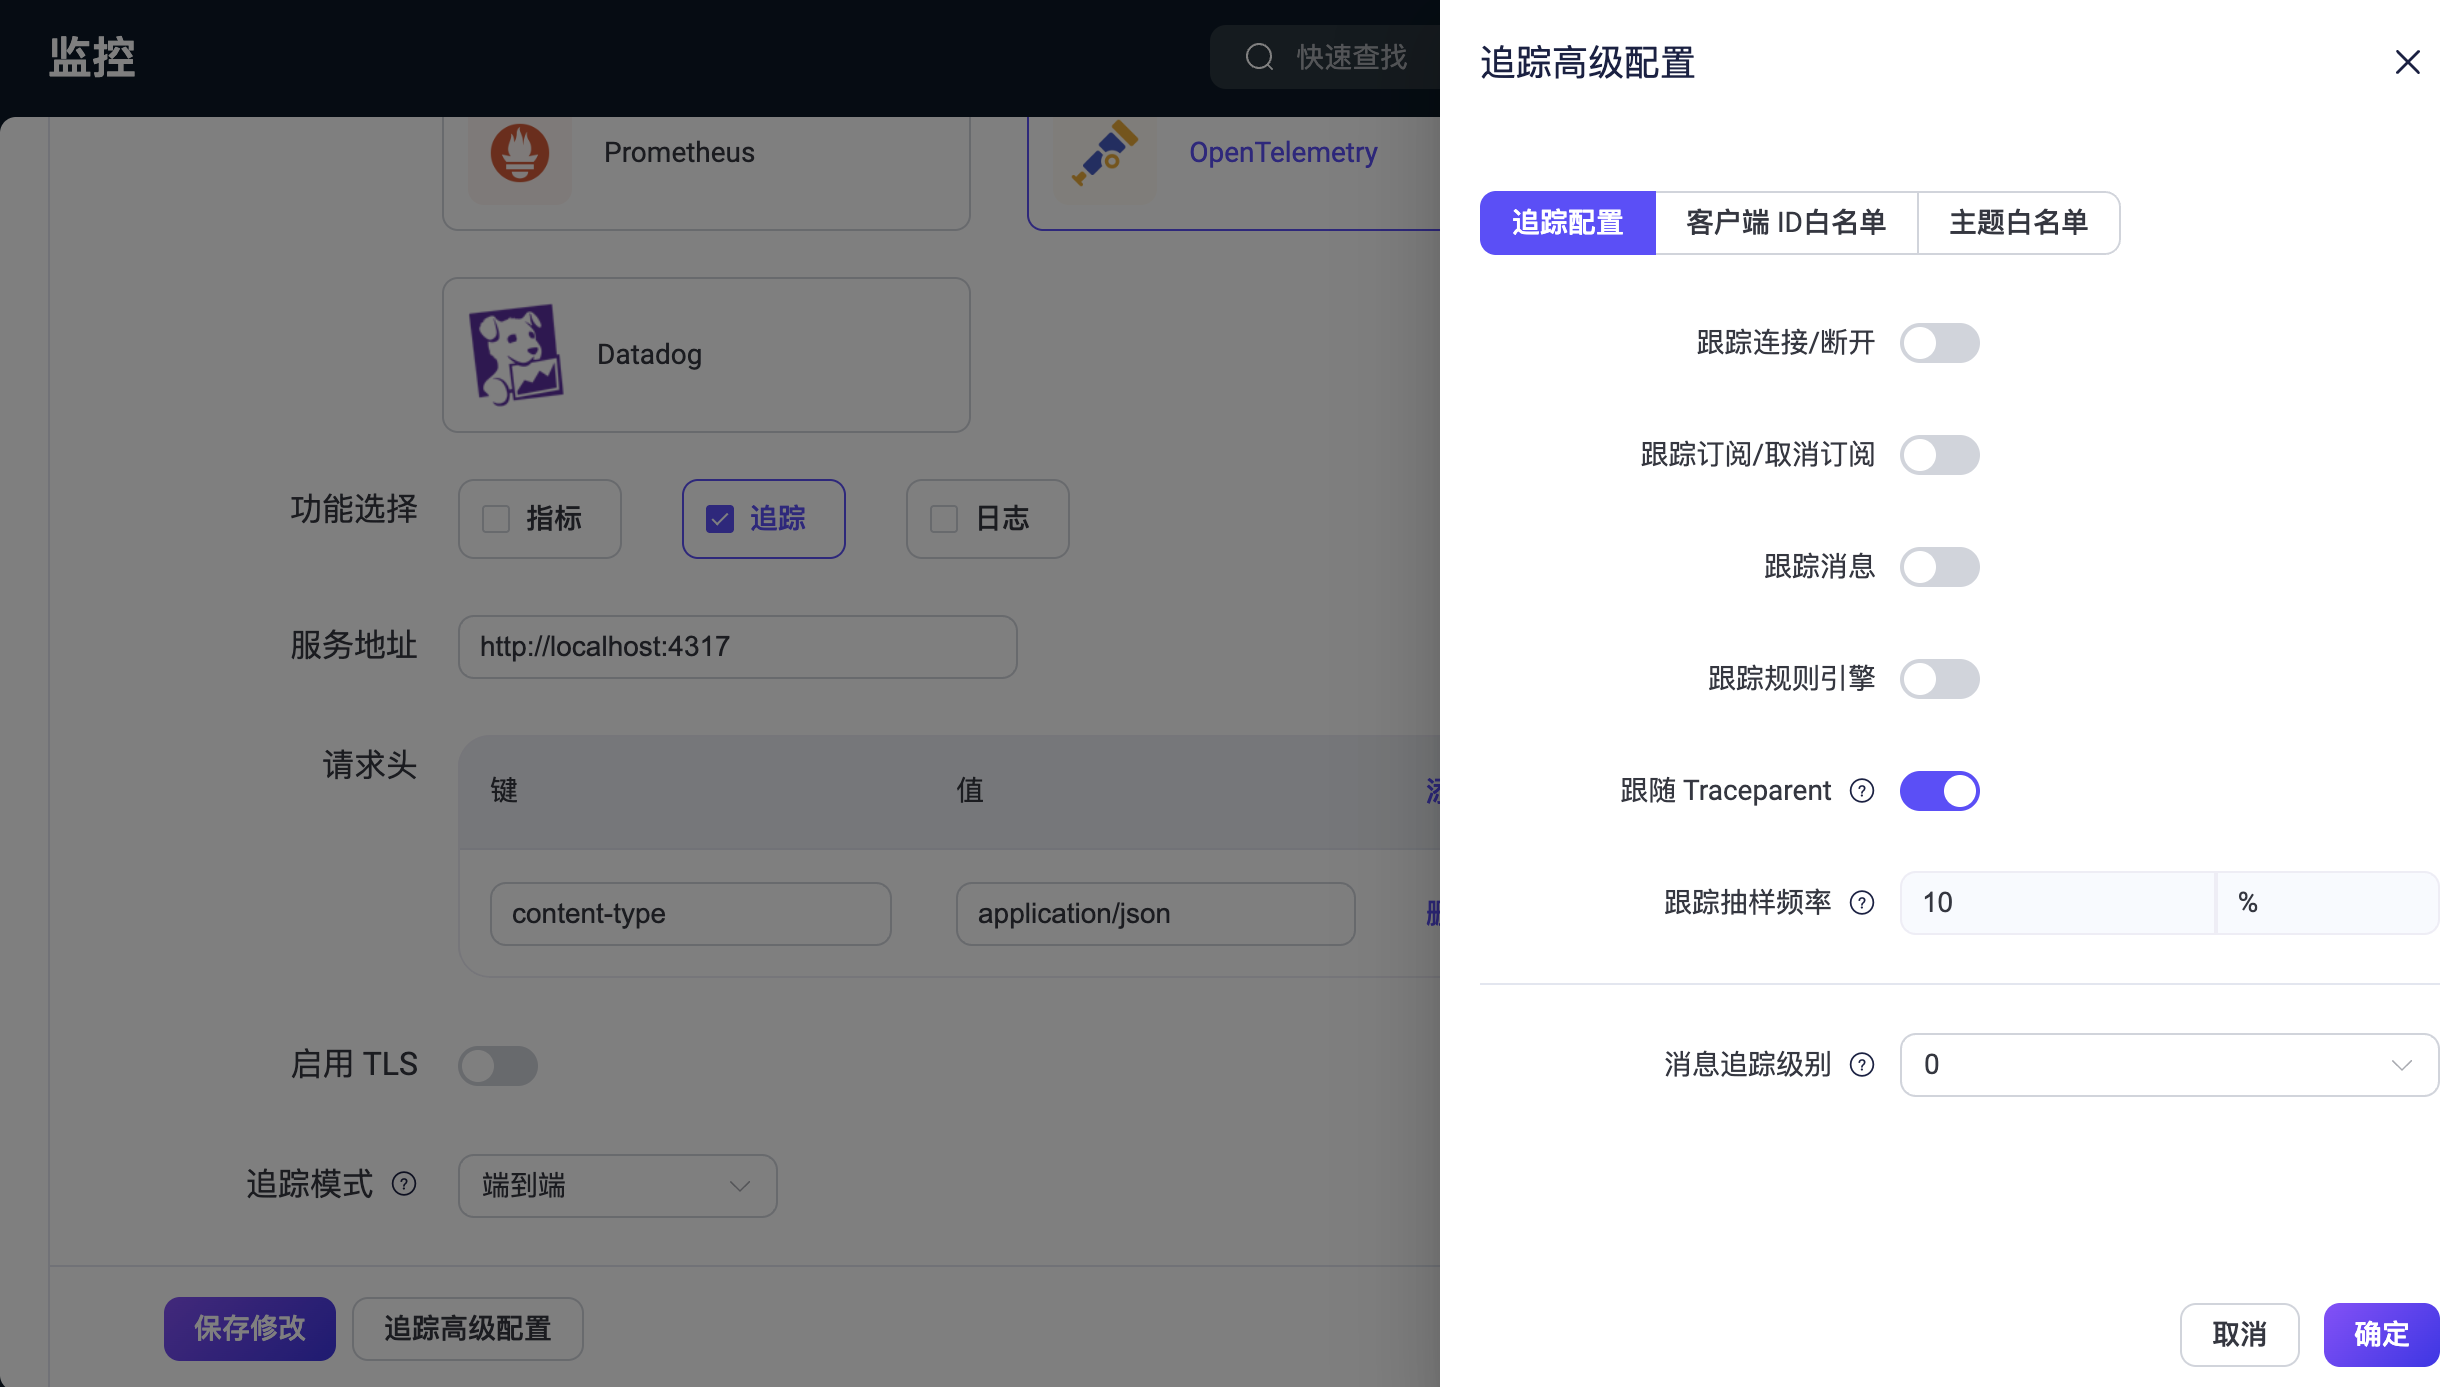
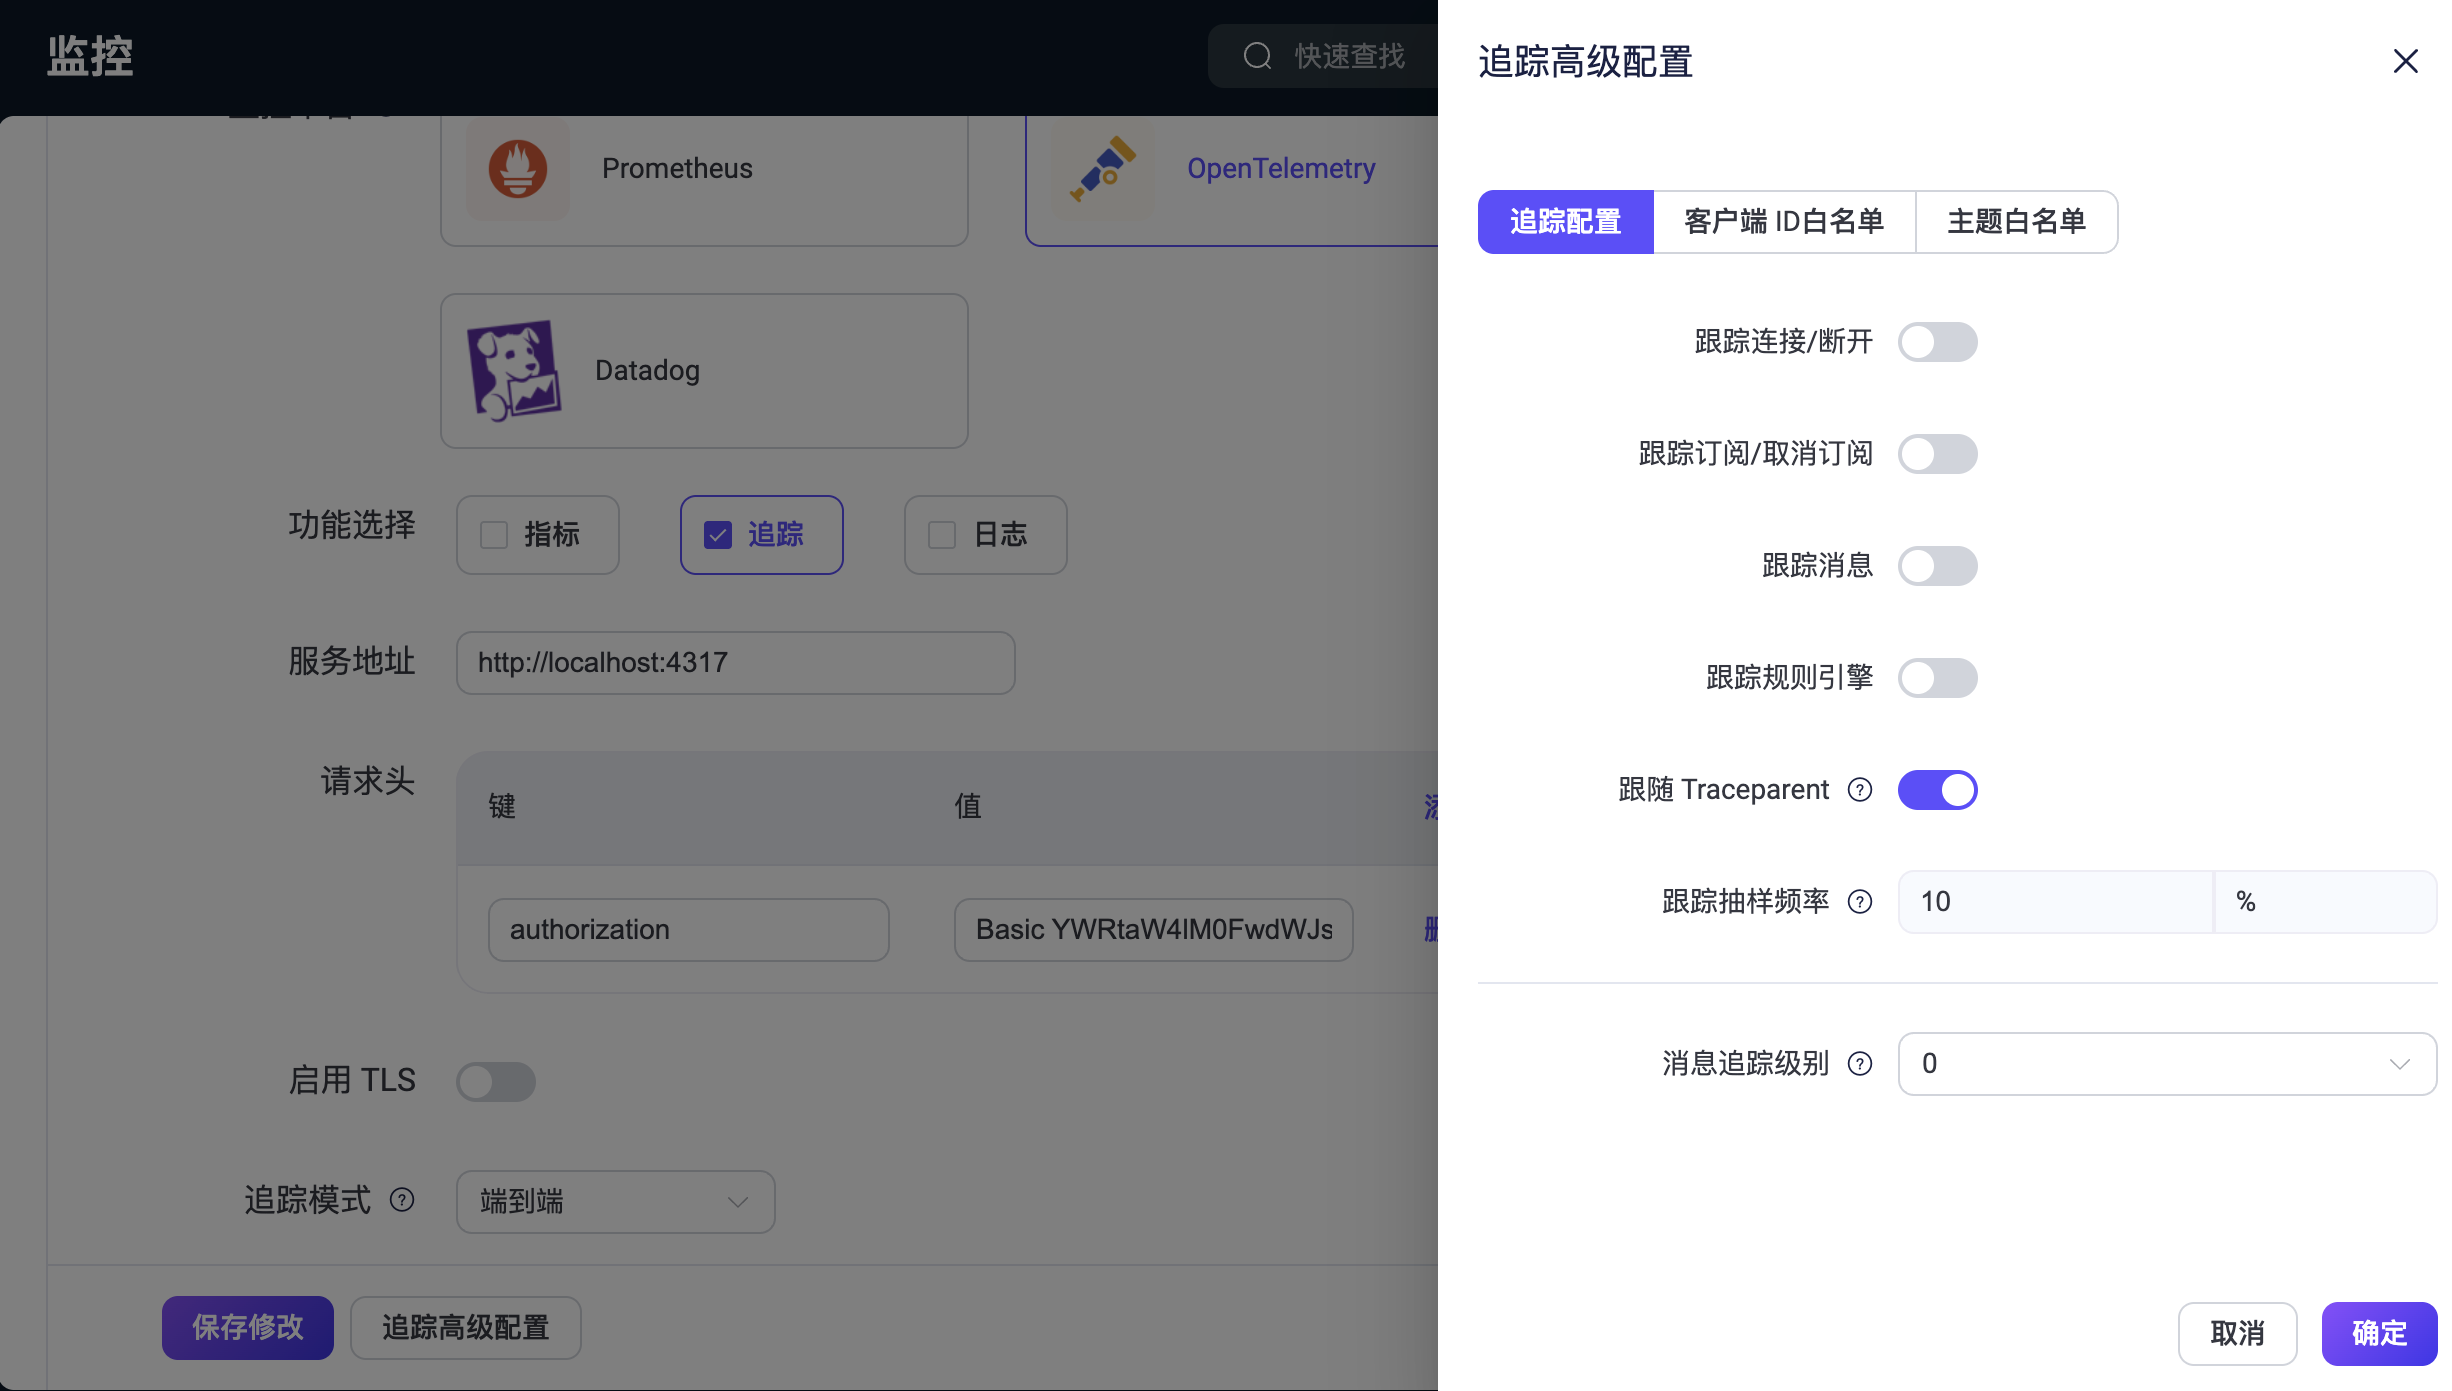
Add more info

diff --git a/zh_CN/observability/opentelemetry/e2e-traces.md b/zh_CN/observability/opentelemetry/e2e-traces.md
@@ -35,16 +35,35 @@
 ### 通过 Dashboard 启用和配置端对端追踪
 
 1. 点击 Dashboard 左侧菜单中的**管理** -> **监控**。
+
 2. 选择页面中的**监控集成**选项卡。
+
 3. 设置以下配置项：
    - **监控平台**：选择 `OpenTelemetry`。
+   
    - **功能选择**：选择 `Traces`。
+   
    - **服务地址**：设置追踪数据导出地址，默认为 `http://localhost:4317`。
-   - **请求头**：为追踪数据的导出请求添加自定义 HTTP 请求头。当 OpenTelemetry Collector 需要身份认证或特定的请求头（例如 API 密钥或令牌）时，可以使用此功能。每个请求头应以键值对的形式配置。该选项增强了对需要基于 HTTP 认证的 Collector 的兼容性。
+   
+   - **请求头**：为追踪数据的导出请求添加自定义 HTTP 请求头。当 OpenTelemetry Collector 需要身份认证或特定请求头（如 API 密钥或令牌）时，可使用此功能。每个请求头应以键值对的形式配置。
+   
+     如果 OpenTelemetry Collector 配置了基本认证（Basic Authentication），则需添加 `authorization` 请求头，其值格式为：`Basic <base64编码的用户名:密码>`。例如：
+   
+     ```
+     键：authorization
+     值：Basic dXNlcjpwYXNzd29yZA==
+     ```
+   
+     该选项增强了对基于 HTTP 认证 Collector 的兼容性。
+   
    - **启用 TLS**：根据需要启用 TLS 加密通信，通常用于生产环境中的安全要求。
+   
    - **追踪模式**：选择 `End-to-End` 以启用端到端追踪功能。
+   
    - **集群标识符**：添加到跨度属性中的属性值，帮助识别数据是来自哪个 EMQX 集群。属性键将是 `cluster.id`。通常，设置一个简单且易于识别的名称或使用集群名称来标识不同的 EMQX 集群。默认为 `emqxcl`。
+   
    - **追踪导出间隔**：设置追踪数据导出的时间间隔，默认为 `5` 秒。
+   
    - **最大队列长度**：设置追踪数据队列的最大长度，默认为 `2048` 条。
    
 4. 点击**追踪高级配置**，根据需要进行高级设置。参考[通过配置文件配置端对端追踪](#通过配置文件配置端对端追踪)中的配置示例。
@@ -55,6 +74,7 @@
    - **主题白名单**：设置一个主题白名单，只有匹配的主题才能被追踪，类似于客户端白名单的作用，帮助控制追踪的范围。
 
 5. 点击**确认**保存配置并关闭窗口。
+
 6. 点击**保存更改**按钮以保存配置。
 
 <img src="./assets/e2e-dashboard-conf-zh.png" alt="Otel-E2E-Trace-dashboard-page" style="zoom:67%;" />

diff --git a/en_US/observability/opentelemetry/e2e-traces.md b/en_US/observability/opentelemetry/e2e-traces.md
@@ -35,16 +35,35 @@ This section guides you through enabling OpenTelemetry-based end-to-end tracing 
 ### Configure End-to-End Tracing via Dashboard
 
 1. Click **Management** -> **Monitoring** from the Dashboard menu on the left.
+
 2. Select the **Integration** tab on the Monitoring page.
+
 3. Configure the following settings:
    - **Monitoring platform**: Select `OpenTelemetry`.
+   
    - **Feature Selection**: Select `Traces`.
+   
    - **Endpoint**: Set the trace data export address, which defaults to `http://localhost:4317`.
-   - **Headers**: Add custom HTTP headers to the trace export request. This is useful when the OpenTelemetry collector requires authentication or other custom headers, such as API keys or tokens. Each header should be provided as a key-value pair. This option enhances compatibility with collectors that enforce HTTP-based authentication.
+   
+   - **Headers**: Add custom HTTP headers to the trace export request. This is useful when the OpenTelemetry collector requires authentication or other custom headers, such as API keys or tokens. Each header should be provided as a key-value pair. 
+   
+     If the OpenTelemetry Collector uses Basic Authentication, you need to add an `authorization` header with the value in the format: `Basic <base64-encoded username:password>`. For example:
+   
+     ```
+     Key: authorization
+     Value: Basic dXNlcjpwYXNzd29yZA==
+     ```
+   
+     This option enhances compatibility with collectors that enforce HTTP-based authentication.
+   
    - **Enable TLS**: Enable TLS encryption for secure communication as needed, typically for security requirements in production environments.
+   
    - **Trace Mode**: Select `End-to-End` to enable end-to-end tracing functionality.
+   
    - **Cluster Identifier**: Add a property value to the span attributes to help identify which EMQX cluster the data comes from. The property key will be `cluster.id`. Typically, set a simple and easily identifiable name or use the cluster name to differentiate between EMQX clusters. The default is `emqxcl`.
+   
    - **Traces Export Interval**: Set the time interval for exporting trace data, with a default of `5` seconds.
+   
    - **Max Queue Size**: Set the maximum size of the trace data queue. The default is `2048` entries.
    
 4. Click **Trace Advanced Configuration** to configure advanced settings if necessary.
